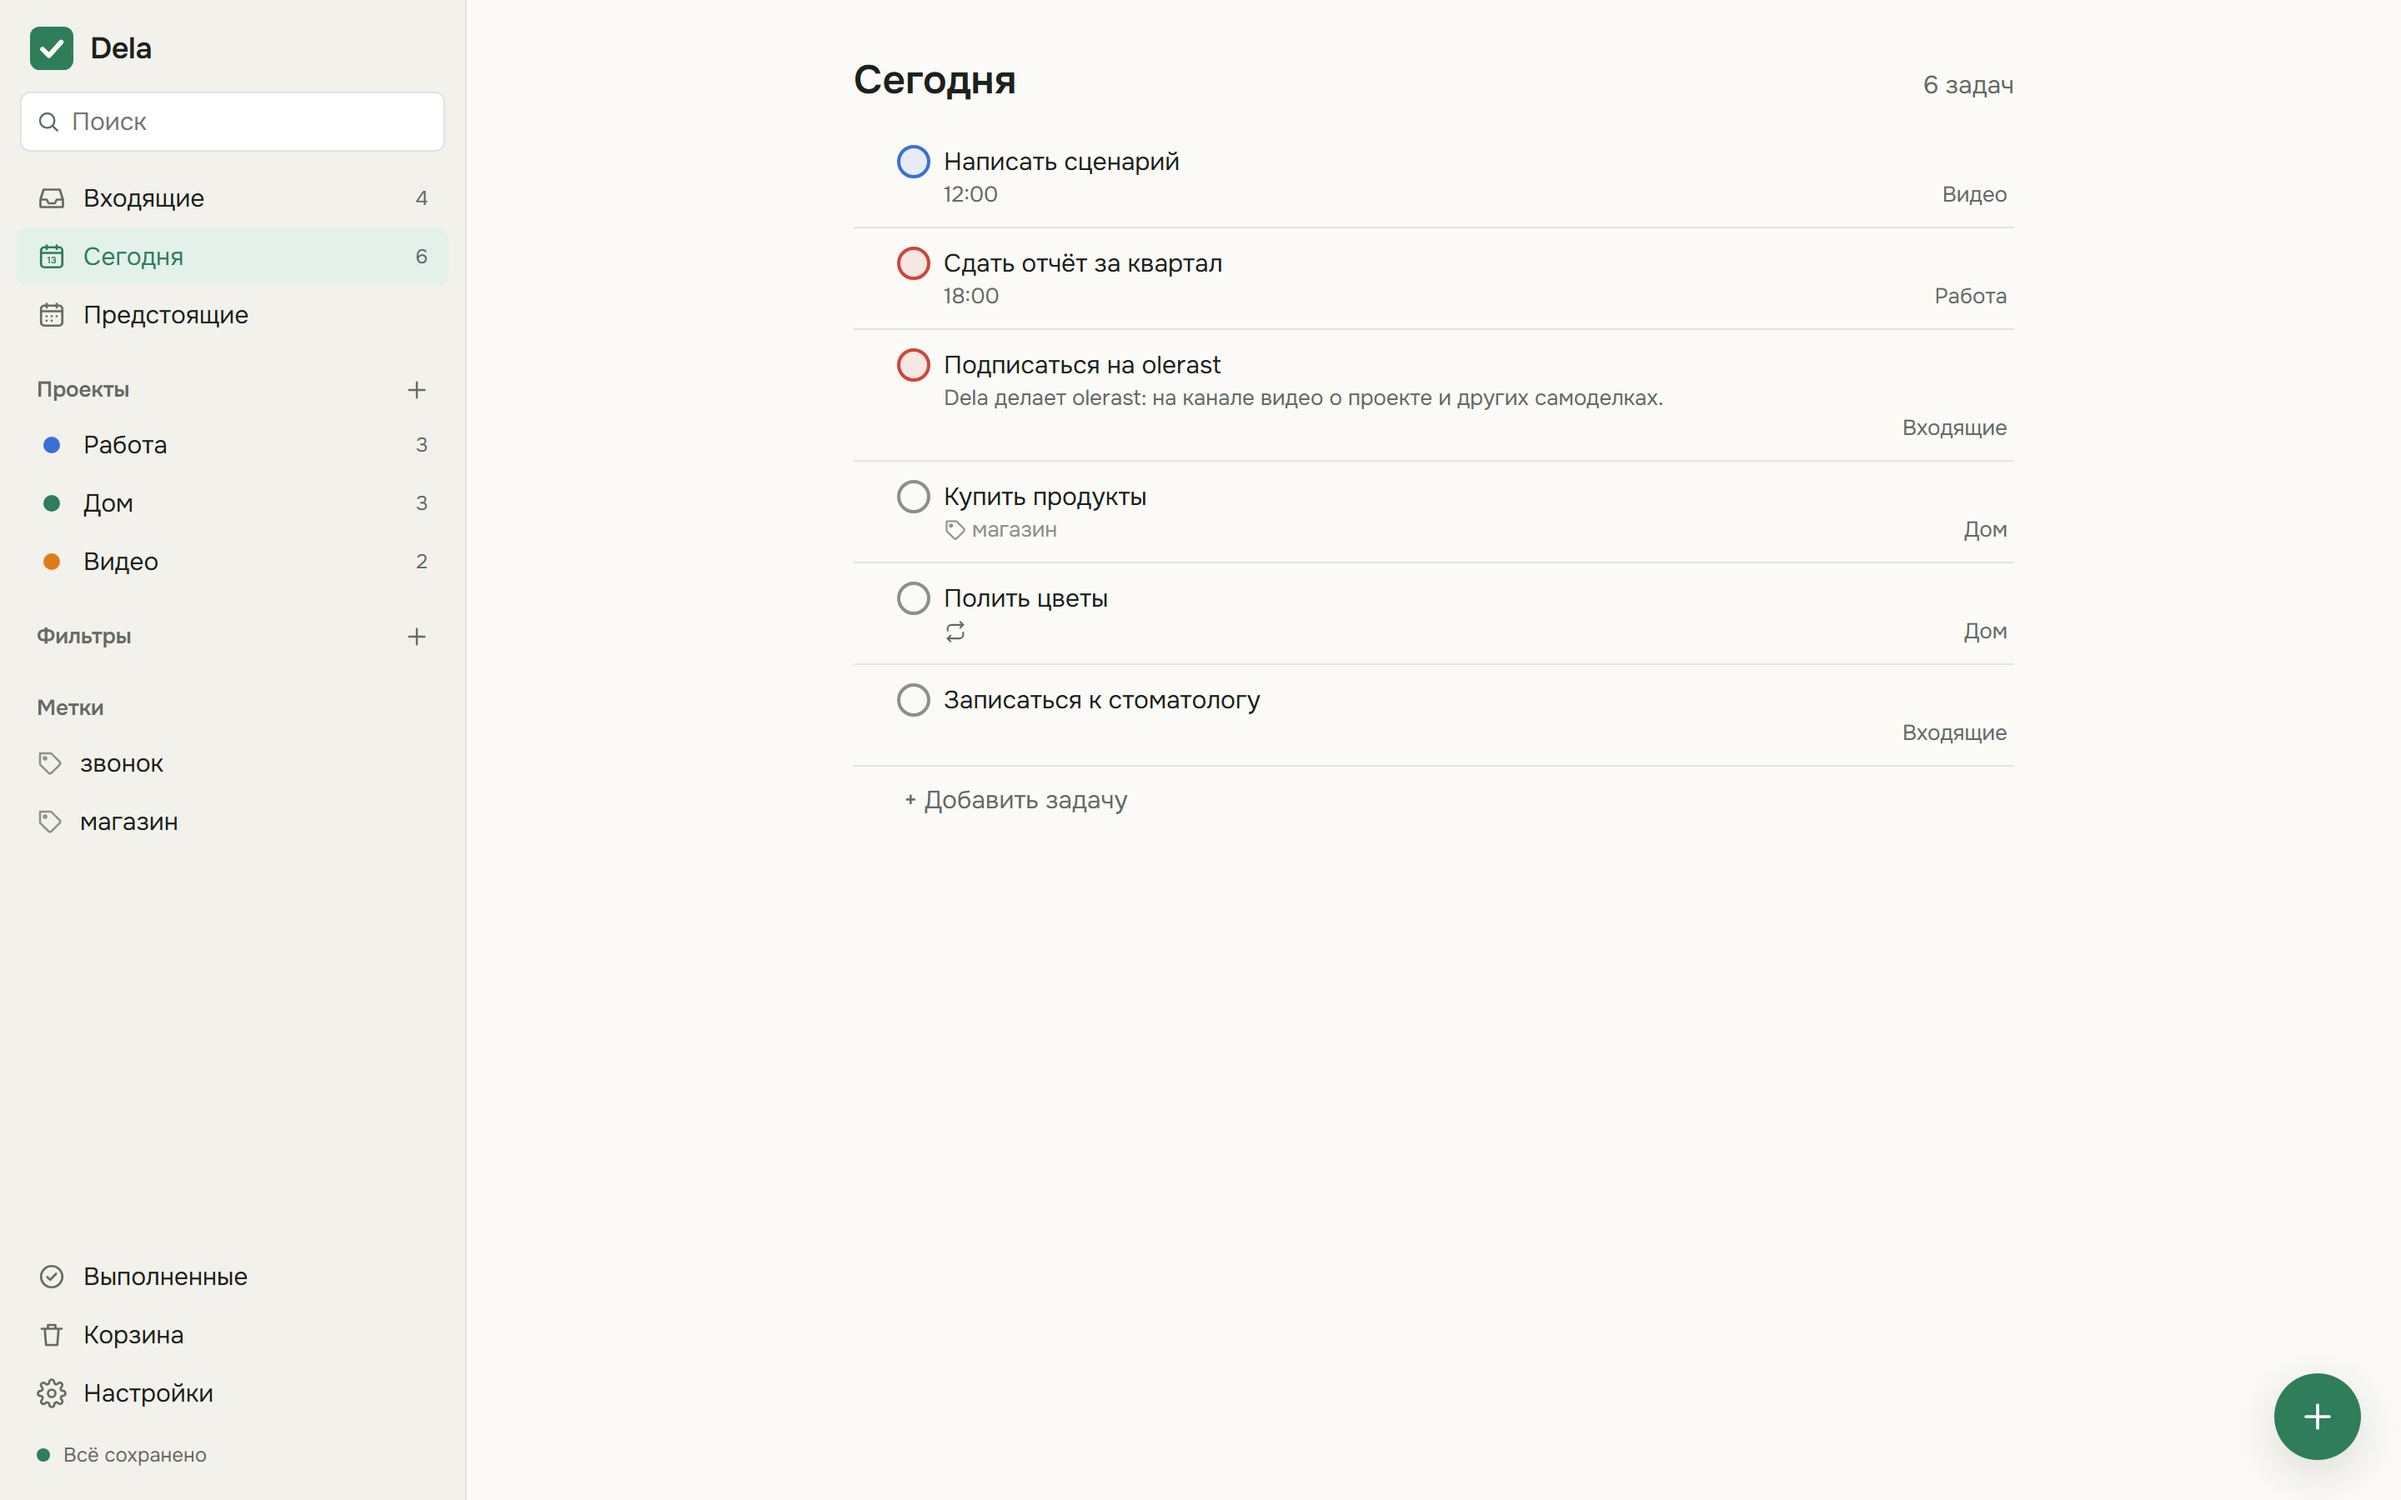
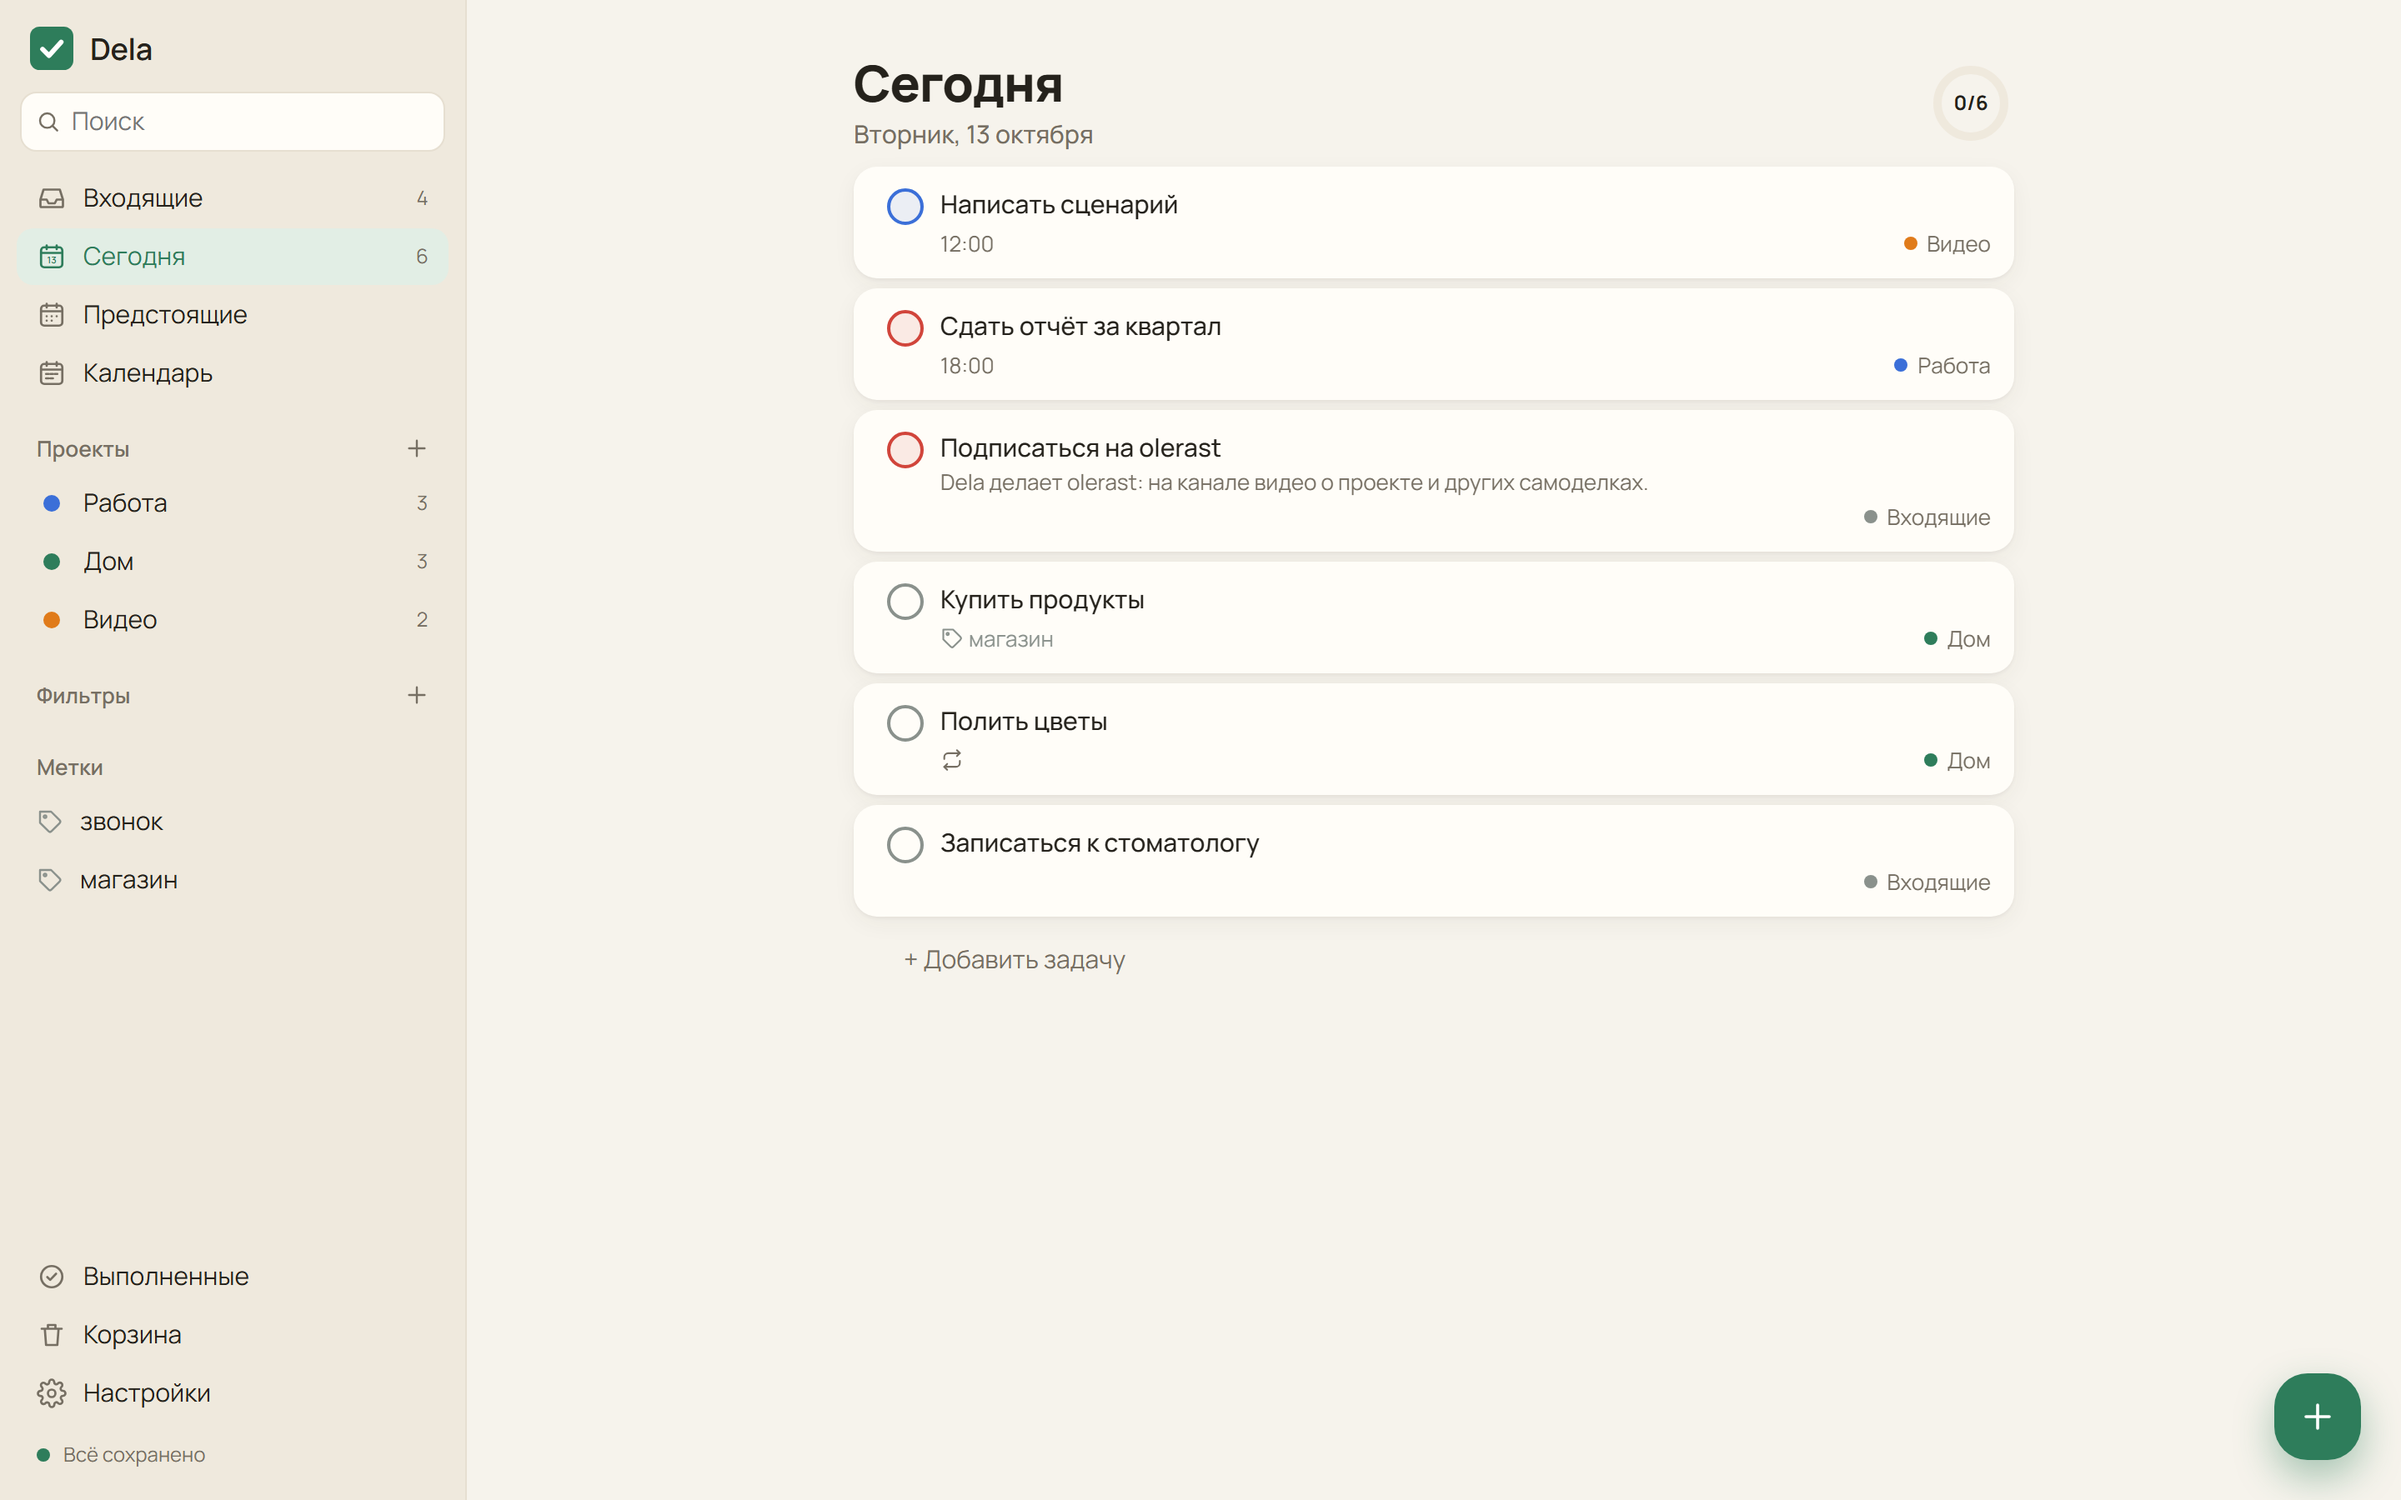
0.2.0: calendar, app lock, account deletion, new design
Version bump, new screenshots and banner in the paper style.

diff --git a/docs/images/banner.html b/docs/images/banner.html
@@ -1,7 +1,7 @@
-<!doctype html><html><head><meta charset="utf-8"><style>
-html,body{margin:0;width:1280px;height:640px;overflow:hidden;background:#F8F7F4;font-family:"Segoe UI",system-ui,sans-serif;color:#1E1F1C}
+<!doctype html><html><head><meta charset="utf-8"><link href="https://fonts.googleapis.com/css2?family=Manrope:wght@400;600;800&display=swap" rel="stylesheet"><style>
+html,body{margin:0;width:1280px;height:640px;overflow:hidden;background:#F6F3EC;font-family:Manrope,"Segoe UI",system-ui,sans-serif;color:#25221C}
 .icon{position:absolute;left:64px;top:140px;width:88px;height:88px;border-radius:20px;background:#2E7D5B;display:flex;align-items:center;justify-content:center}
-h1{position:absolute;left:62px;top:252px;margin:0;font-size:96px;font-weight:600;letter-spacing:-2px;line-height:1}
+h1{position:absolute;left:62px;top:252px;margin:0;font-size:96px;font-weight:800;letter-spacing:-3px;line-height:1}
 .lead{position:absolute;left:66px;top:372px;font-size:32px;line-height:43px}
 .sub{position:absolute;left:66px;top:472px;font-size:22px;line-height:31px;color:#6B6C66}
 .desk{position:absolute;left:640px;top:120px;width:720px;height:450px;border-radius:12px 0 0 12px;overflow:hidden;box-shadow:0 18px 50px rgba(0,0,0,.14)}

diff --git a/apps/web/src/ui/Views.tsx b/apps/web/src/ui/Views.tsx
@@ -56,7 +56,7 @@ function TodayHead({ open, today }: { open: number; today: string }) {
         <div className="ring" role="img" aria-label={`Выполнено ${done} из ${total}`} title={`Выполнено ${done} из ${total}`}>
           <svg width="52" height="52" viewBox="0 0 52 52" aria-hidden="true">
             <circle cx="26" cy="26" r={r} className="ring-track" />
-            <circle cx="26" cy="26" r={r} className="ring-value" strokeDasharray={`${part} ${c}`} transform="rotate(-90 26 26)" />
+            {done > 0 && <circle cx="26" cy="26" r={r} className="ring-value" strokeDasharray={`${part} ${c}`} transform="rotate(-90 26 26)" />}
           </svg>
           <span>
             {done}/{total}

diff --git a/apps/server/src/app.ts b/apps/server/src/app.ts
@@ -17,7 +17,7 @@ import { generateVapid, isAllowedEndpoint, loadVapid, sendPush } from './webpush
 import { newTotpSecret, otpauthUri, verifyTotp } from './totp.ts';
 import { EMAIL_RE, UUID_RE, b64, bad, int, obj, optStr, str } from './validate.ts';
 
-export const VERSION = '0.1.1';
+export const VERSION = '0.2.0';
 
 interface Auth {
   readonly userId: string;

diff --git a/CHANGELOG.md b/CHANGELOG.md
@@ -1,6 +1,6 @@
 # Changelog
 
-## Unreleased
+## 0.2.0
 
 - New look: warm paper palette, Manrope font, tasks on cards, a larger Today header with the date and a progress ring, drawings on empty screens.
 - Phone: bottom tab bar, larger rows and tap targets, swipe a task right to complete it and left to reschedule it, the task opens as a bottom sheet that closes with a downward drag, short vibration on gestures.
